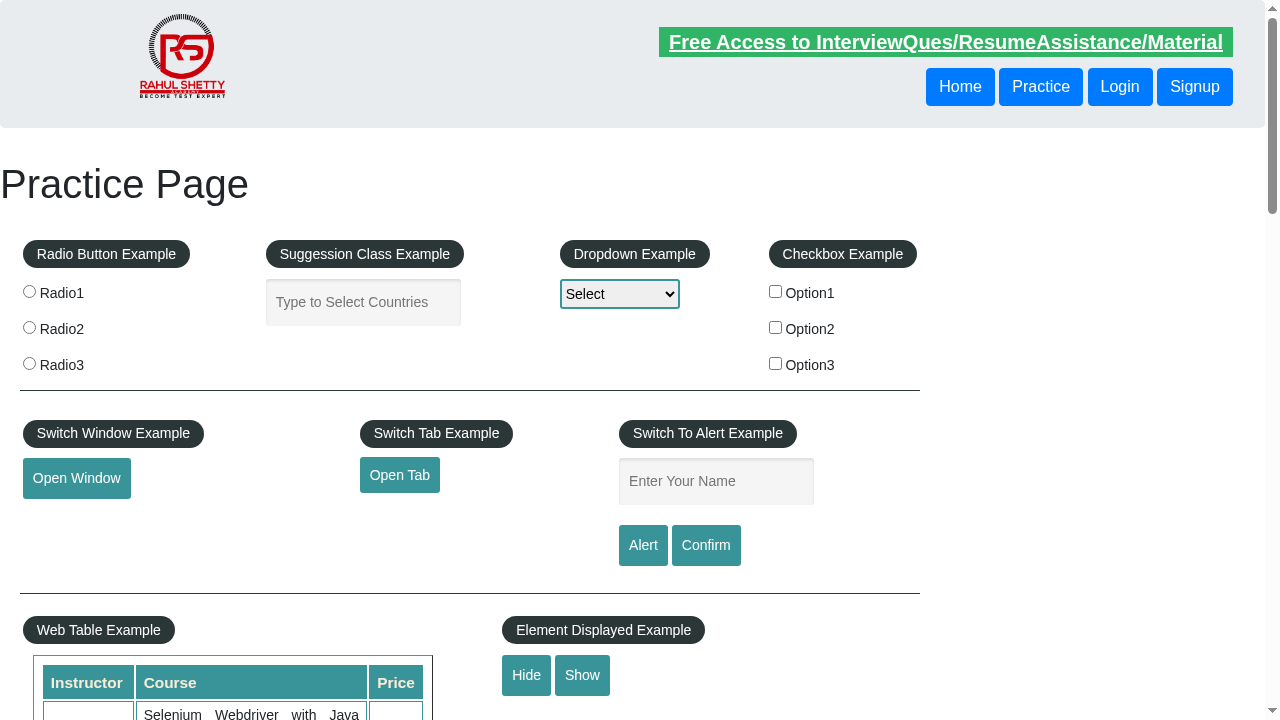
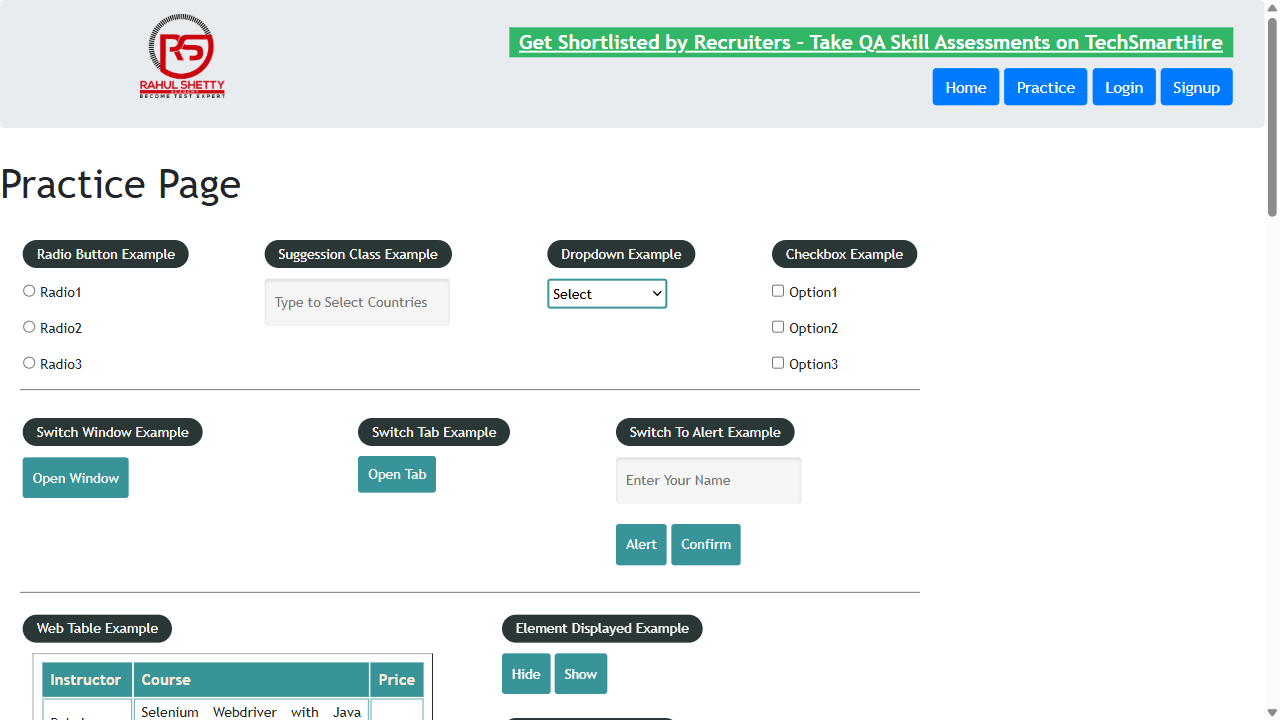
Testing Jenkins CI

diff --git a/tests/ClientAppPO.spec.ts b/tests/ClientAppPO.spec.ts
@@ -4,7 +4,7 @@ import { POManager } from '../pageobjects_ts/POManager';
 
 //Json -> string -> js object (to avoid encoding issues, first convert into string and them java object)
 const dataset = JSON.parse(JSON.stringify(require("../test-data/placeorderTestData.json")));
-
+// Jenkins CI test
 for (const data of dataset) { //Parameterization using json file
     test(`@Web Client App login ${data.productName}`, async ({ page }) => {//no two test can have same name
         //js file- Login js, DashboardPage